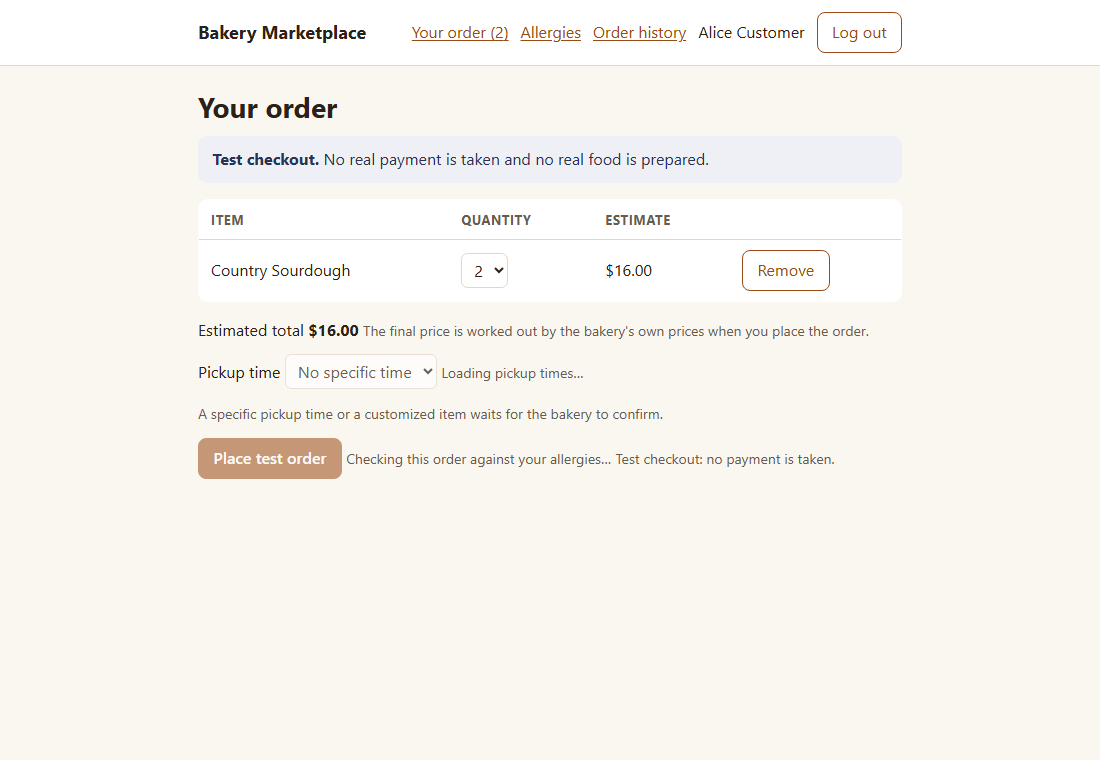
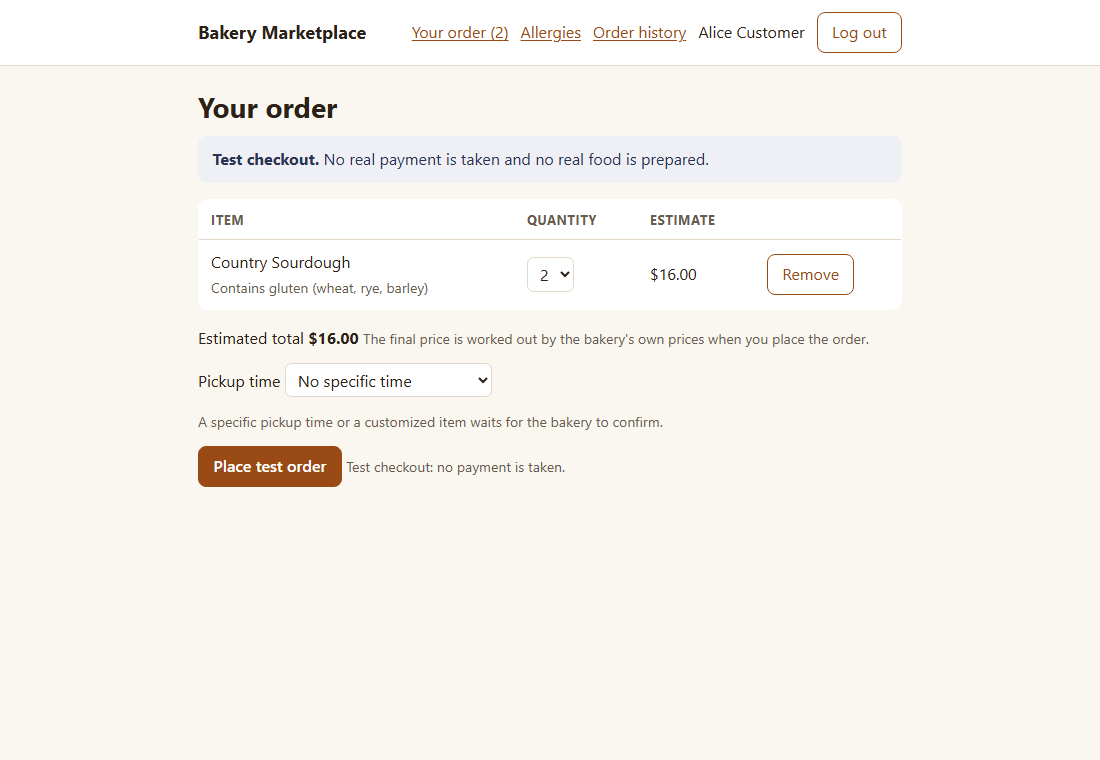
Register 149 resolved; WI-MOB-002 evidence, spec and register updated for the hardened control server and the approved allergy wording; demo screenshots retaken; demo.md and scripts.md

diff --git a/docs/governance/open-items-register.md b/docs/governance/open-items-register.md
@@ -806,7 +806,7 @@ The Android app keeps a refresh token in the Keystore (`expo-secure-store`). The
 **146. The mobile app has no allergen acknowledgement at the cart**
 Type: Follow-up · Source: `WI-MOB-001` (open point), `WI-CUST-008` · Hat: Engineering, Product
 Status: Resolved 2026-11-04
-Resolution: built as `WI-MOB-002` (In review): the cart lists what each line contains, checkout warns and blocks Place order until the acknowledgement is ticked, says plainly when there is no profile or the check failed, and tells the bakery the customer's allergens; three Maestro flows pass on the emulator (`docs/evidence/WI-MOB-002/`). The allergen profile is persisted customer data read through the BFF, so no profile screen was part of it. What was not run and the lead's pending review of the wording are in that evidence file.
+Resolution: built as `WI-MOB-002` (In review): the cart lists what each line contains, checkout warns and blocks Place order until the acknowledgement is ticked, says plainly when there is no profile or the check failed, and tells the bakery the customer's allergens; three Maestro flows pass on the emulator (`docs/evidence/WI-MOB-002/`). The allergen profile is persisted customer data read through the BFF, so no profile screen was part of it. What was not run is in that evidence file; the lead approved the wording on 2026-11-04.
 The web app asks the customer to acknowledge allergen conflicts and can tell the bakery their allergens (`cartCheck`, the `allergens` field of `placeOrder`). The Android app does not: the BFF does not require it to place an order, which was the condition the spec set for building it, and the app shows no allergen or personalization screens. The shared package already holds the rules (`cartAllergens.ts`), so a follow-up item can add the screen. "Reconciled" means a work item exists or the lead decides the app stays without it.
 
 **147. The debug build of the app could not load its JavaScript from the Metro dev server on the emulator; the bundle is embedded instead**
@@ -817,9 +817,10 @@ On the first debug build the app showed "Unable to load script" although Metro a
 **148. The mobile flows run only on the lead's machine and depend on the emulator image's state**
 Type: Test limitation · Source: `WI-MOB-001` · Hat: QA
 Status: Accepted
-Decided by the lead: Android only, local only, no CI, no Maestro cloud. The flows (`apps/mobile-customer/.maestro/`, run by `node scripts/dev/mobile-flows.mjs`) log in through Chrome Custom Tabs; Chrome's first-run screen ("Use without an account") appears once on a fresh emulator image and the login subflow dismisses it only if it shows. A different image or Chrome version may show other prompts. The app under test is a test build (decline switch on) and the BFF runs with `ENABLE_TEST_HOOKS=1`: a test setup, never a demo (`scripts/dev/mobile-stack.mjs`). The app has no accessibility or visual checks yet. The refused-session, expired-token and failed-request paths are not covered by a flow or a unit test: `WI-MOB-003`. **Added 2026-11-04 (`WI-MOB-002`):** (1) Chrome sometimes shows the issuer's login page with its heading but not its buttons in the accessibility tree (seen once in five runs, "Element not found" after 20 s); the login subflow falls back to tapping where the first button is, and whether that fallback ever ran was not checked. (2) The flows from `05` on call a local control server that only `scripts/dev/mobile-flows.mjs` starts (`scripts/lib/flow-control.mjs`, `127.0.0.1:4199`: it saves Alice's allergen profile through the BFF after signing in as her with the app's own flow, reads her newest order, and stops and starts the BFF); started by `maestro test` alone they fail at their first step. (3) A run can be killed by low memory: the emulator, the Docker stack and a Gradle build together are heavy on this machine (once, no result).
+Decided by the lead: Android only, local only, no CI, no Maestro cloud. The flows (`apps/mobile-customer/.maestro/`, run by `node scripts/dev/mobile-flows.mjs`) log in through Chrome Custom Tabs; Chrome's first-run screen ("Use without an account") appears once on a fresh emulator image and the login subflow dismisses it only if it shows. A different image or Chrome version may show other prompts. The app under test is a test build (decline switch on) and the BFF runs with `ENABLE_TEST_HOOKS=1`: a test setup, never a demo (`scripts/dev/mobile-stack.mjs`). The app has no accessibility or visual checks yet. The refused-session, expired-token and failed-request paths are not covered by a flow or a unit test: `WI-MOB-003`. **Added 2026-11-04 (`WI-MOB-002`):** (1) Chrome sometimes shows the issuer's login page with its heading but not its buttons in the accessibility tree (seen once in five runs, "Element not found" after 20 s); the login subflow falls back to tapping where the first button is, and whether that fallback ever ran was not checked. (2) The flows from `05` on call a local control server that only `scripts/dev/mobile-flows.mjs` starts (`scripts/lib/flow-control.mjs`, `127.0.0.1:4199`: it saves Alice's allergen profile through the BFF after signing in as her with the app's own flow, reads her newest order, and stops and starts the BFF); started by `maestro test` alone they fail at their first step. It has no password: it refuses requests from a browser page (an `Origin` header), without its custom header or with the wrong `Host` (8 tests), but another program running as the same user can call it during a run. (3) A run can be killed by low memory: the emulator, the Docker stack and a Gradle build together are heavy on this machine (once, no result).
 
 **149. The customer web app shows an empty coloured box under the "hide items" box on the browse page**
 Type: Defect (cosmetic) · Source: the demo screenshot `docs/operations/demo/07-browse-conflicts.png` (2026-11-04), `apps/web-customer/src/components/ListingsList.tsx` · Hat: Engineering
-Status: Open
+Status: Resolved 2026-11-04
 When a signed-in customer has a profile, the browse page renders `<p role="status" data-testid="hidden-count">` with an empty string until the customer ticks a hiding box, and the shared `[role='status']` style (padding, rounded background) draws it as an empty green bar. Found while taking screenshots for `demo.md`; the cause is read from the source and the screenshot, not reproduced in a browser test. Not fixed here (it is in the personalization web work, outside `WI-MOB-002`). "Reconciled" means the element renders nothing when it has no text, or the style does not apply to an empty one, and a browser test asserts it.
+Resolution: an empty `alert`, `note` or `status` box now takes no room and shows no colour (`globals.css`: `:empty` sets no padding, margin or background; it is not `display: none`, so a live region stays in the page for screen readers). A browser test (`personalized.spec.ts`, "the “hidden” message takes no room ...") asserts the empty message is under 1 px high with no background, and a real one is a message again; it failed (22 px) before the fix and passes after it. The whole customer browser suite passes (133 tests, accessibility scans included). The nine demo screenshots were retaken against the real stack after the fix, and the browse one (`07-browse-conflicts.png`) was looked at: the empty bar is gone.

diff --git a/docs/evidence/WI-MOB-002/maestro-flows-2026-11-04.md b/docs/evidence/WI-MOB-002/maestro-flows-2026-11-04.md
@@ -2,7 +2,7 @@
 
 > **Status:** Snapshot · 2026-11-04 · one local run on the lead's Windows machine, after several runs that failed; not a pipeline result.
 >
-> **Current result:** `node scripts/dev/mobile-flows.mjs` from a cold start passed **7 of 7 flows**, exit code 0, 255 s of flow time, with a fresh build of the app. The same flows failed in three earlier runs the same day for the reasons below, and none of the allergen paths has been exercised beyond what the three new flows do (see "Not run").
+> **Current result:** `node scripts/dev/mobile-flows.mjs` from a cold start passed **7 of 7 flows**, exit code 0, 255 s of flow time, with a fresh build of the app; after the control server was hardened (below) the flows were run again with the same app and passed **7 of 7** again (257 s). The same flows failed in three earlier runs the same day for the reasons below, and none of the allergen paths has been exercised beyond what the three new flows do (see "Not run").
 
 ## What ran
 
@@ -34,6 +34,13 @@ The customer's allergen profile is **not** set by a screen of the app: the flows
 
 So the passing run is the first in which every flow passed, after the tooling and the screen were changed. No flow was deliberately broken to prove it can fail; flow 05 did fail on a real assertion in run 3, and flow 03 on the login in run 1, which shows those assertions are live, not that every assertion is.
 
+## The control server, hardened after the first passing run (same day)
+
+Re-reading `scripts/lib/flow-control.mjs` showed it had no protection against a **web page in a browser**: while a run is active, a cross-origin "simple" POST needs no preflight and the server would have acted on it (stopped the BFF, rewritten Alice's mock profile). It now refuses, with 403 and before touching the issuer, the BFF or the processes, any request that carries an `Origin` header, lacks the header `x-flow-control: 1` (the Maestro scripts send it), or whose `Host` is not `127.0.0.1` on the server's own port (DNS rebinding). It still has no password, so another program running as the same user can call it while a run lasts.
+
+- **Tests:** `scripts/ci/tests/flow-control.test.mjs` (8 tests, fake issuer, BFF and stack, no emulator): the PKCE sign-in and `savePreferences` with Alice's bearer token and only the two lists, the newest order, stop and start of the BFF, and each refusal reaching nothing. With the guard replaced by `false`, 4 of the 8 fail (the four refusal tests); restored, all 8 pass. Each of the three conditions was not mutated on its own.
+- **The flows were re-run** after the change, from a cold start with `--no-build` (the app was unchanged): 7 of 7 passed, 4 m 17 s, and the run's log contains no refusal. The JUnit file is `maestro-junit-2026-11-04-hardened.xml`.
+
 ## Versions
 
 As in `docs/evidence/WI-MOB-001/maestro-flows-2026-11-04.md` (Maestro 2.12.1, `bakery_pixel` Android 35 x86_64, Expo SDK 58, React Native 0.88.1, Node 25.9.0, .NET 10, Docker 29.1.3), on the same machine.
@@ -45,5 +52,5 @@ As in `docs/evidence/WI-MOB-001/maestro-flows-2026-11-04.md` (Maestro 2.12.1, `b
 - **Nothing about accessibility:** whether a screen reader announces the warnings, the checkbox and the disabled button correctly, large text, or dark mode was not checked. The warning's colour is not the only signal (the heading "Allergy warning" and the symbol carry it), by construction rather than test.
 - **One emulator image, one machine, one passing run**, and the login page's tree problem was seen once in five runs, so a failure at the login on another run is possible. The login subflow now falls back to tapping where the first button is when the button is not in the tree; whether that fallback ran in the passing run was not checked.
 - **When the check fails nothing is told to the bakery:** with the profile unreadable the app cannot know which allergens to send, so the order carries none (the web behaves the same). Flow 07 does not assert this.
-- **Not shown to a person:** the wording of the warnings and the "no profile" text has not been reviewed by the lead (the spec names the lead as reviewer of the safety wording).
+- **The lead approved the wording** of the warnings, the "no profile" text and the rest of the allergy text on 2026-11-04, after these runs and on reading the spec and the summary; the evidence for that is the lead's statement in the session, not a recorded review of the screens. The lead's review of the control server's use of the sign-in flow is still pending.
 - Local only: not in the pipeline, the flows only work when started by `scripts/dev/mobile-flows.mjs` (the control server), the app is a test build and the BFF has its test hook on.

diff --git a/docs/product/backlog/TRACEABILITY.md b/docs/product/backlog/TRACEABILITY.md
@@ -26,7 +26,7 @@ Of 54 work items marked Done: 29 are named by a test file, 18 by an evidence rec
 | [CUST-003](WI-CUST-003.md) | Cart + checkout UI | Done | *none* | *none* |
 | [CUST-004](WI-CUST-004.md) | Order confirmation + order status view | Done | *none* | `baseline-2026-10-30.md` |
 | [CUST-005](WI-CUST-005.md) | Allergen profile page | In review | `preferences.spec.ts`, `profile-page.spec.ts` | `ai-usage-2026-11-04.md`, `status-check-experiment-2026-10-30.md` |
-| [CUST-006](WI-CUST-006.md) | Allergen conflicts on browse and detail | In review | `personalized.spec.ts`, `profile-page.spec.ts`, `conflictText.test.ts` | `ai-usage-2026-11-04.md`, `status-check-experiment-2026-10-30.md` |
+| [CUST-006](WI-CUST-006.md) | Allergen conflicts on browse and detail | In review | `personalized.spec.ts`, `profile-page.spec.ts`, `conflictText.test.ts` | `maestro-flows-2026-11-04.md`, `ai-usage-2026-11-04.md`, `status-check-experiment-2026-10-30.md` |
 | [CUST-007](WI-CUST-007.md) | Customer order history list | In review | `order-history.spec.ts`, `order-history.spec.ts`, `customer-orders.test.ts` and 1 more | `ai-usage-2026-11-04.md`, `baseline-2026-10-30.md`, `status-check-experiment-2026-10-30.md` |
 | [CUST-008](WI-CUST-008.md) | Allergens in the cart and at checkout: show them, warn, and tell the bakery | In review | `checkout-allergens.spec.ts`, `checkout-allergens.spec.ts`, `cartAllergens.test.ts` | `ai-usage-2026-11-04.md` |
 | [DATA-001](WI-DATA-001.md) | Define IRepository<T> interface + contract tests | Done | `FakeRepositoryTests.cs`, `RepositoryContractTests.cs` | *none* |
@@ -45,8 +45,8 @@ Of 54 work items marked Done: 29 are named by a test file, 18 by an evidence rec
 | [MGMT-005](WI-MGMT-005.md) | Draft the budget / cost estimate | In review | *none* | *none* |
 | [MGMT-007](WI-MGMT-007.md) | Draft the stakeholder communications plan | Done | *none* | *none* |
 | [MGMT-008](WI-MGMT-008.md) | Draft the branching/release strategy | Done | *none* | *none* |
-| [MOB-001](WI-MOB-001.md) | Customer mobile app (Android, Expo) with Maestro flows | In review | *none* | `maestro-flows-2026-11-04.md` |
-| [MOB-002](WI-MOB-002.md) | Android app: allergens in the cart and at checkout (show them, warn, acknowledge, tell the bakery), and who is signed in | In review | *none* | `maestro-flows-2026-11-04.md` |
+| [MOB-001](WI-MOB-001.md) | Customer mobile app (Android, Expo) with Maestro flows | In review | *none* | `maestro-flows-2026-11-04.md`, `maestro-flows-2026-11-04.md` |
+| [MOB-002](WI-MOB-002.md) | Android app: allergens in the cart and at checkout (show them, warn, acknowledge, tell the bakery), and who is signed in | In review | `identity.test.ts` | `maestro-flows-2026-11-04.md`, `maestro-flows-2026-11-04.md` |
 | [NFR-001](WI-NFR-001.md) | Draft the Non-Functional Requirements document | Done | *none* | *none* |
 | [NOT-001](WI-NOT-001.md) | Notification service: consume order events and dispatch through a sender adapter | In review | `RedisBatchDeliveryTests.cs` | `README.md`, `ai-usage-2026-11-03.md`, `ai-usage-2026-11-04.md` |
 | [NOT-002](WI-NOT-002.md) | Notification templates for the order lifecycle | In review | *none* | `README.md`, `ai-usage-2026-11-03.md` |

diff --git a/docs/product/backlog/STATUS.md b/docs/product/backlog/STATUS.md
@@ -111,7 +111,7 @@ Epics with no spec yet are listed, with their planned items, in `epic-catalog.md
 | [MGMT-007](WI-MGMT-007.md) | Draft the stakeholder communications plan | EPIC-PM-ARTIFACTS | Done | evidence: `docs/management/stakeholder-communications-plan.md` |
 | [MGMT-008](WI-MGMT-008.md) | Draft the branching/release strategy | EPIC-PM-ARTIFACTS | Done | evidence: `docs/process/branching-strategy.md` |
 | [MOB-001](WI-MOB-001.md) | Customer mobile app (Android, Expo) with Maestro flows | EPIC-WEB-CUSTOMER | In review | built and run locally 2026-11-04 (four Maestro flows pass on the emulator, `docs/evidence/WI-MOB-001/`); waiting for the lead's review of the auth changes (the issuer redirect rule, the token handling in the app) and decision on pushing; ADR-0023 accepted 2026-11-04 |
-| [MOB-002](WI-MOB-002.md) | Android app: allergens in the cart and at checkout (show them, warn, acknowledge, tell the bakery), and who is signed in | EPIC-WEB-CUSTOMER | In review | built and run locally 2026-11-04 (7 of 7 Maestro flows pass from a cold start, `docs/evidence/WI-MOB-002/`; 14 new unit tests); waiting for the lead's review of the allergy wording (the spec names the lead as its reviewer) and of the control server's use of the sign-in flow; the lead added "Signed in as <name>" on 2026-11-04 |
+| [MOB-002](WI-MOB-002.md) | Android app: allergens in the cart and at checkout (show them, warn, acknowledge, tell the bakery), and who is signed in | EPIC-WEB-CUSTOMER | In review | built and run locally 2026-11-04 (7 of 7 Maestro flows pass from a cold start, `docs/evidence/WI-MOB-002/`; 14 new unit tests); the lead approved the allergy wording on 2026-11-04; waiting for the lead's review of the control server's use of the sign-in flow (`scripts/lib/flow-control.mjs`); the lead added "Signed in as <name>" on 2026-11-04 |
 | [MOB-003](WI-MOB-003.md) | Android app: tests for the session logic and flows for a refused or expired session and for failed requests | EPIC-QUALITY-EVIDENCE | Ready | written 2026-11-04 at the lead's request; depends on `WI-MOB-001` (built, In review) |
 | [NFR-001](WI-NFR-001.md) | Draft the Non-Functional Requirements document | EPIC-ARCH-DOCS | Done | evidence: `docs/architecture/nfrs.md` |
 | [NOT-001](WI-NOT-001.md) | Notification service: consume order events and dispatch through a sender adapter | EPIC-NOTIFICATIONS | In review | built and run locally on `feature/slice-notifications` (2026-11-03); evidence: the Outcome note below; `services/notification-service` |
@@ -288,10 +288,10 @@ Accepted: 22 · Superseded: 1
 | Item status | Count |
 |---|---|
 | Deferred | 17 |
-| Resolved | 49 |
+| Resolved | 50 |
 | Accepted | 9 |
 | Tracking | 12 |
-| Open | 58 |
+| Open | 57 |
 | Decided | 1 |
 | Partly | 1 |
 | First | 1 |

diff --git a/docs/operations/demo.md b/docs/operations/demo.md
@@ -100,7 +100,7 @@ Taken by `node scripts/dev/capture-journey.mjs` against the running demo (2026-1
 
 ## Measured and not measured
 
-- **2026-11-04:** `demo.mjs` started the stack and printed its guide (the warm-up took 0.1 s, everything was cached), and `capture-journey.mjs` then ran all nine steps without failing: login, an order (first checkout 2.7 s, status "Order confirmed"), saving the tree-nut allergy, the warnings on browse, the warning and the unticked confirmation at checkout (the button was not clicked), and the order history. The screenshots above come from that run; the agent that took them looked at three (browse, browse with the warnings, the checkout warning) and not at the other six. Stopping was done by killing the process and `docker compose down`, not by Enter.
+- **2026-11-04, two runs:** `demo.mjs` started the stack and printed its guide (the warm-up took 0.1 s, everything was cached), and `capture-journey.mjs` ran all nine steps without failing: login, an order (first checkout 2.7 s, status "Order confirmed"), saving the tree-nut allergy, the warnings on browse, the warning and the unticked confirmation at checkout (the button was not clicked), and the order history. Later the same day, after the empty green box under the "hide items" tick box on the browse page was fixed (register 149), the demo was started again and the same script retook all nine screenshots (first checkout 2.5 s). The screenshots above are from the second run. The agent that took them looked at the browse screenshot (the box is gone); from the first run it had looked at the warnings on browse and at the checkout warning, and it has not looked at the other screenshots. Both times the demo was stopped by killing its process and running `docker compose down`, not by Enter.
 - **2026-10-30:** the script was run once from start to stop, with `--stop-after 20`: 87 s, exit 0, no containers left. The first checkout then took 7.0 s even after the warm-up, which does not cover the first priced checkout (register item 98). Both numbers are one run each on one machine.
 - Docker images, NuGet packages and npm packages were already cached. A first run on a machine with nothing cached will take longer; it has not been timed (`WI-DEMO-001`).
 - Not run: the acknowledgement being ticked and the order with the allergen being placed in this demo (the browser suites and the real-stack journeys cover it), a reload keeping the login (ADR-0019 and its tests, not re-run here), the vendor's queue screen.

diff --git a/docs/operations/scripts.md b/docs/operations/scripts.md
@@ -24,7 +24,7 @@ Run everything from the repository root unless a row says otherwise. Nothing her
 | `docker compose up -d --build` | Redis Streams (`redis-events`), the Cosmos vNext emulator, the mock OIDC issuer. `--profile with-redis` adds the cache Redis (sessions); `--profile apps` adds the catalog, ordering, BFF and web containers (needs `ORDERING_CLIENT_SECRET` from `init-env`, `COMPOSE_PARALLEL_LIMIT=1`). | Docker | `docker compose down` (resets all state) |
 | `node scripts/dev/check-env.mjs [--with-redis] [--wait 90]` | Exit 0 when the infrastructure answers, 1 otherwise; `--wait` retries. | Docker up | (one-shot) |
 | `node scripts/dev/mobile-stack.mjs [--keep]` | Compose, seed, catalog, ordering and the BFF **with the declined-payment test hook on**, `adb reverse` for 5100 and 4100; no web app, no emulator, no app. | Docker, .NET, Node | Enter, Ctrl+C or the file `artifacts/mobile/STOP`; tears down unless `--keep` |
-| `scripts/lib/local-stack.mjs`, `scripts/lib/mobile.mjs`, `scripts/lib/flow-control.mjs` | Not commands: the stack start-up, the emulator, build and install helpers, and the small local server (`127.0.0.1:4199`) that `mobile-flows.mjs` starts for the Maestro flows (saves Alice's allergen profile through the BFF, reports her newest order, stops and starts the BFF). Test tooling only. | | |
+| `scripts/lib/local-stack.mjs`, `scripts/lib/mobile.mjs`, `scripts/lib/flow-control.mjs` | Not commands: the stack start-up, the emulator, build and install helpers, and the small local server (`127.0.0.1:4199`) that `mobile-flows.mjs` starts for the Maestro flows (saves Alice's allergen profile through the BFF, reports her newest order, stops and starts the BFF). Test tooling only: it refuses calls from a browser page and any call without its header (`scripts/ci/tests/flow-control.test.mjs`). | | |
 
 Ports: 3000 customer web, 3100 queue display, 4000 mock BFF (browser suites), 4100 GraphQL BFF, 5100 mock issuer, 5200 catalog, 5300 ordering, 5400 notification, 6379 events Redis, 6380 cache Redis, 8081 Cosmos emulator (Metro's usual port too; the Android app does not use Metro, register 147). `scripts/dev/check-env.mjs` reads the same variables as `docker-compose.yml`.
 

diff --git a/docs/product/backlog/WI-MOB-002.md b/docs/product/backlog/WI-MOB-002.md
@@ -1,4 +1,4 @@
-> **Status:** In review · built and run locally 2026-11-04 (7 of 7 Maestro flows pass from a cold start, `docs/evidence/WI-MOB-002/`; 14 new unit tests); waiting for the lead's review of the allergy wording (the spec names the lead as its reviewer) and of the control server's use of the sign-in flow; the lead added "Signed in as <name>" on 2026-11-04
+> **Status:** In review · built and run locally 2026-11-04 (7 of 7 Maestro flows pass from a cold start, `docs/evidence/WI-MOB-002/`; 14 new unit tests); the lead approved the allergy wording on 2026-11-04; waiting for the lead's review of the control server's use of the sign-in flow (`scripts/lib/flow-control.mjs`); the lead added "Signed in as <name>" on 2026-11-04
 
 ```
 WI ID:               MOB-002
@@ -61,4 +61,5 @@ Yes. The wording and gating rules are in the shared package; the lead reviews th
 - **The open point is decided:** the profile is saved by the runner's control server through the BFF `savePreferences`, signed in as Alice with the app's own flow; no second mock user was needed because each flow sets its own profile and clears it.
 - **The check-failed flow takes the BFF away** instead of failing one query; the runner's control server stops and starts it.
 - **Diet matches** (`cartCheck`'s `dietMatches`, `WI-TAG-004`) are not read or shown (out of scope, as the spec says).
-- Not done: the cases listed under "Not run" in the evidence (an `AVOID`-only conflict, several allergies, unticking an allergy, an option-only conflict), any accessibility check, and the lead's review of the wording.
+- **The control server was hardened** after the first passing run (it refuses browser pages and any call without its header or the right Host; 8 tests; the flows re-run 7 of 7).
+- Not done: the cases listed under "Not run" in the evidence (an `AVOID`-only conflict, several allergies, unticking an allergy, an option-only conflict) and any accessibility check. The lead approved the wording on 2026-11-04.
